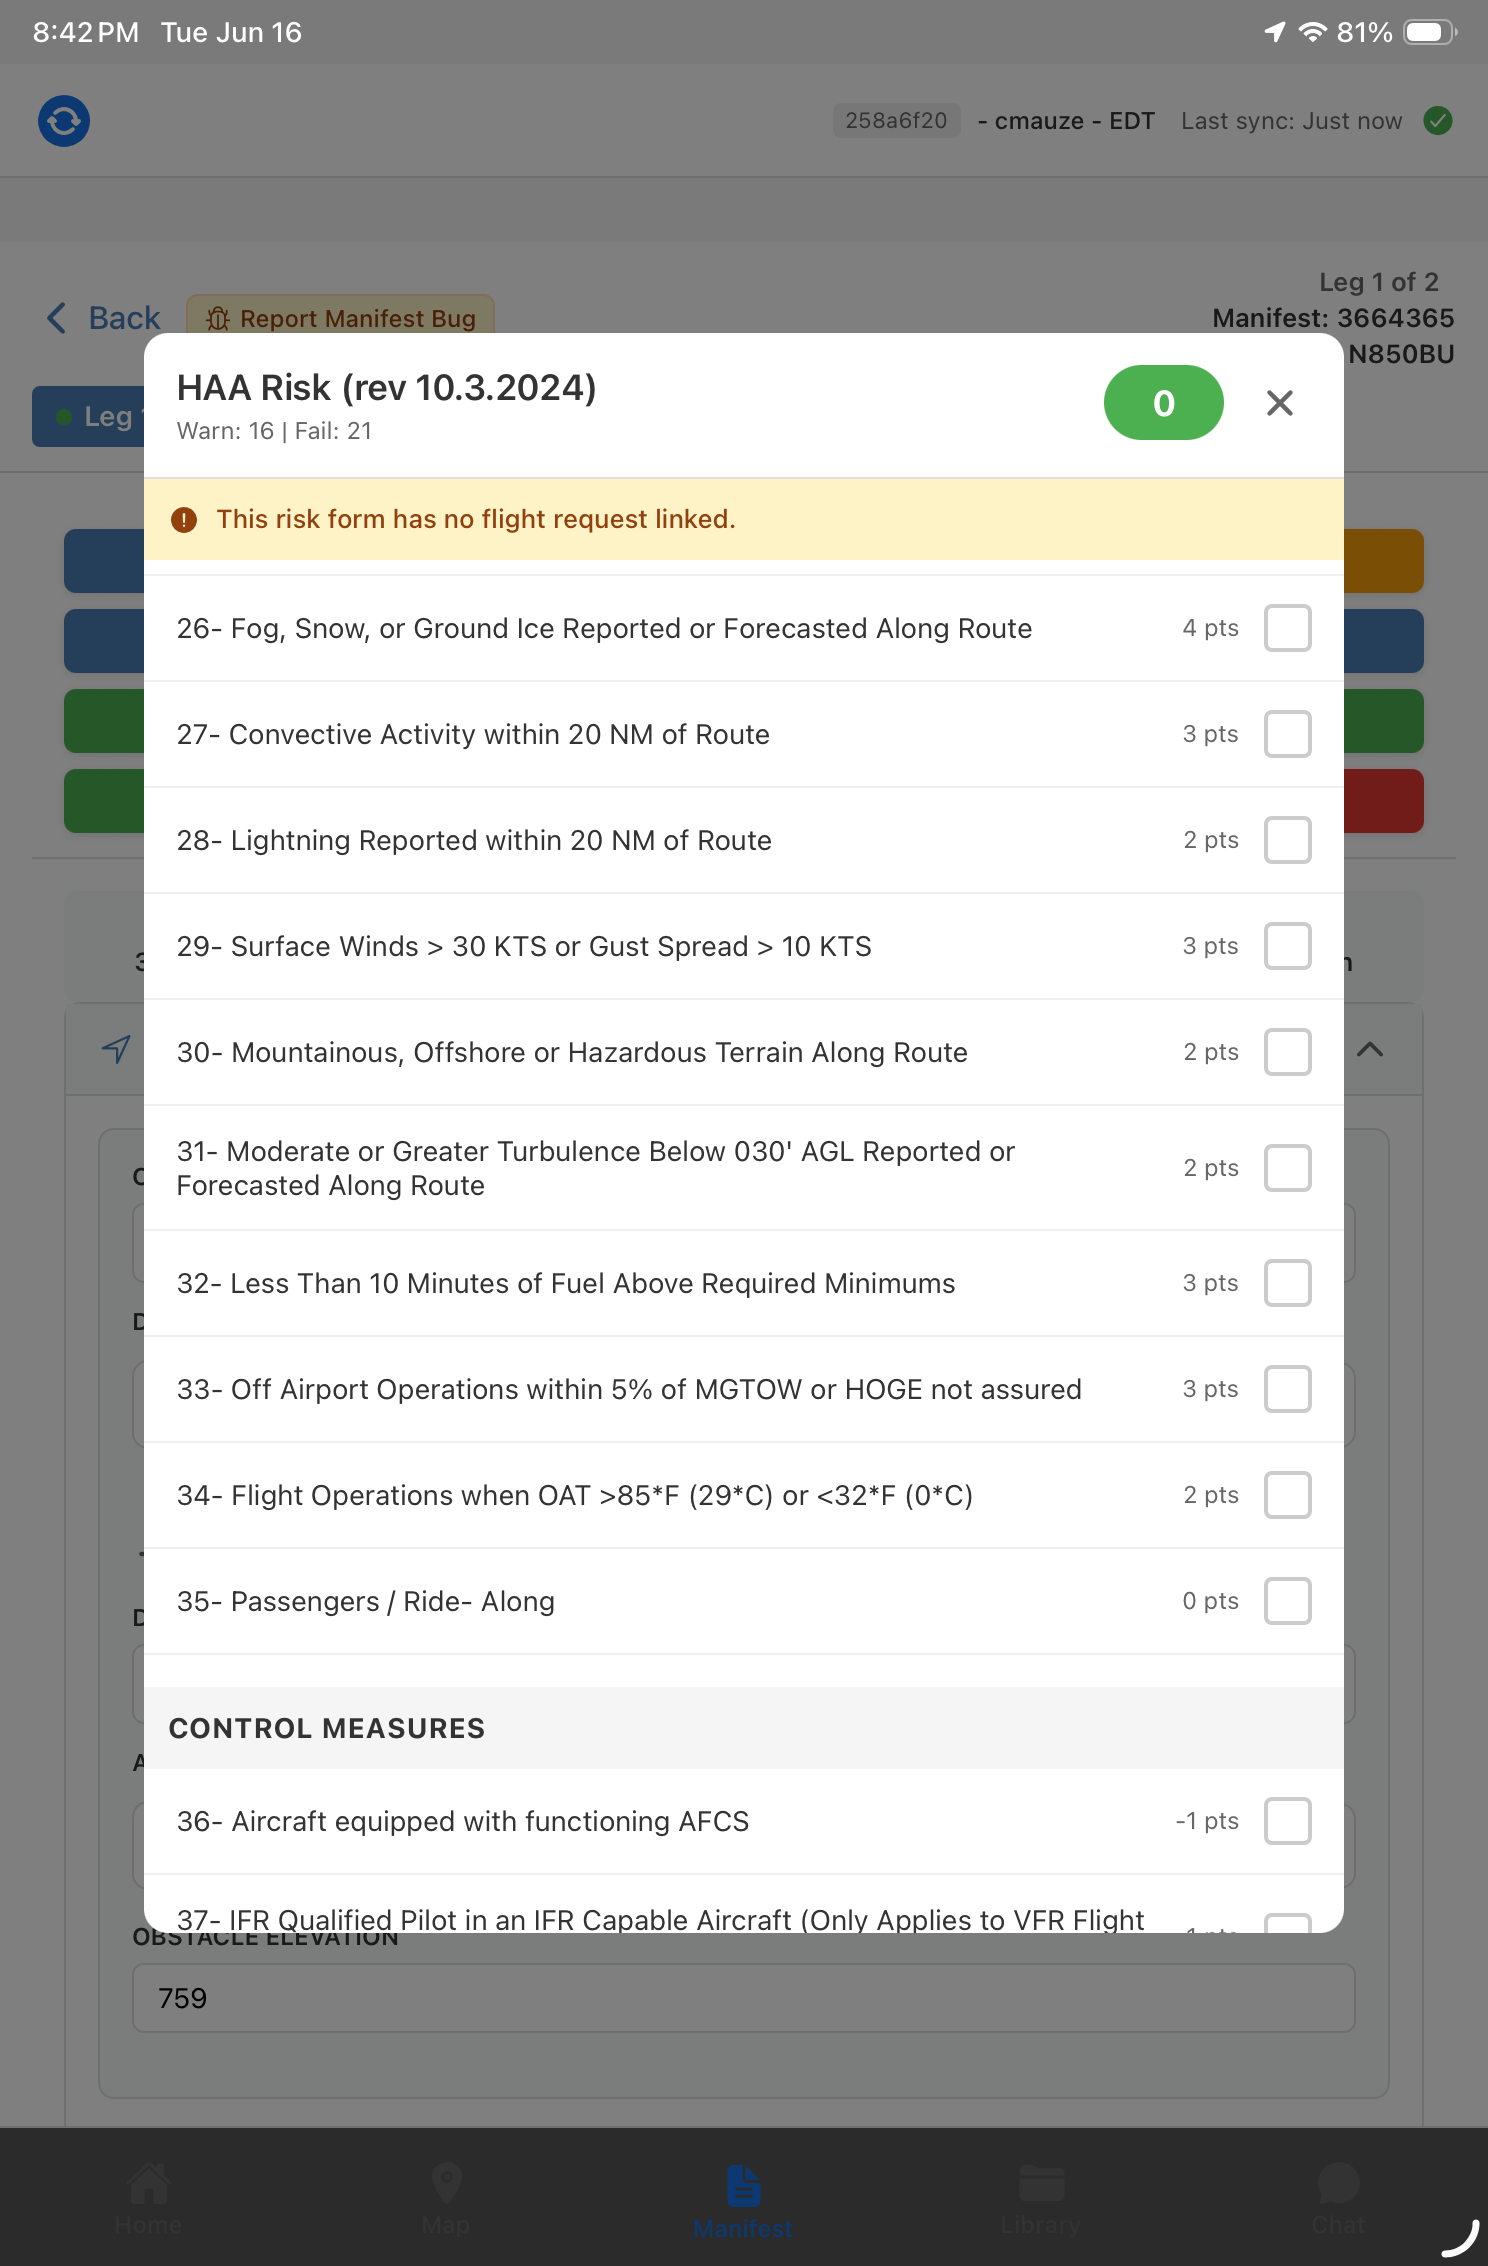
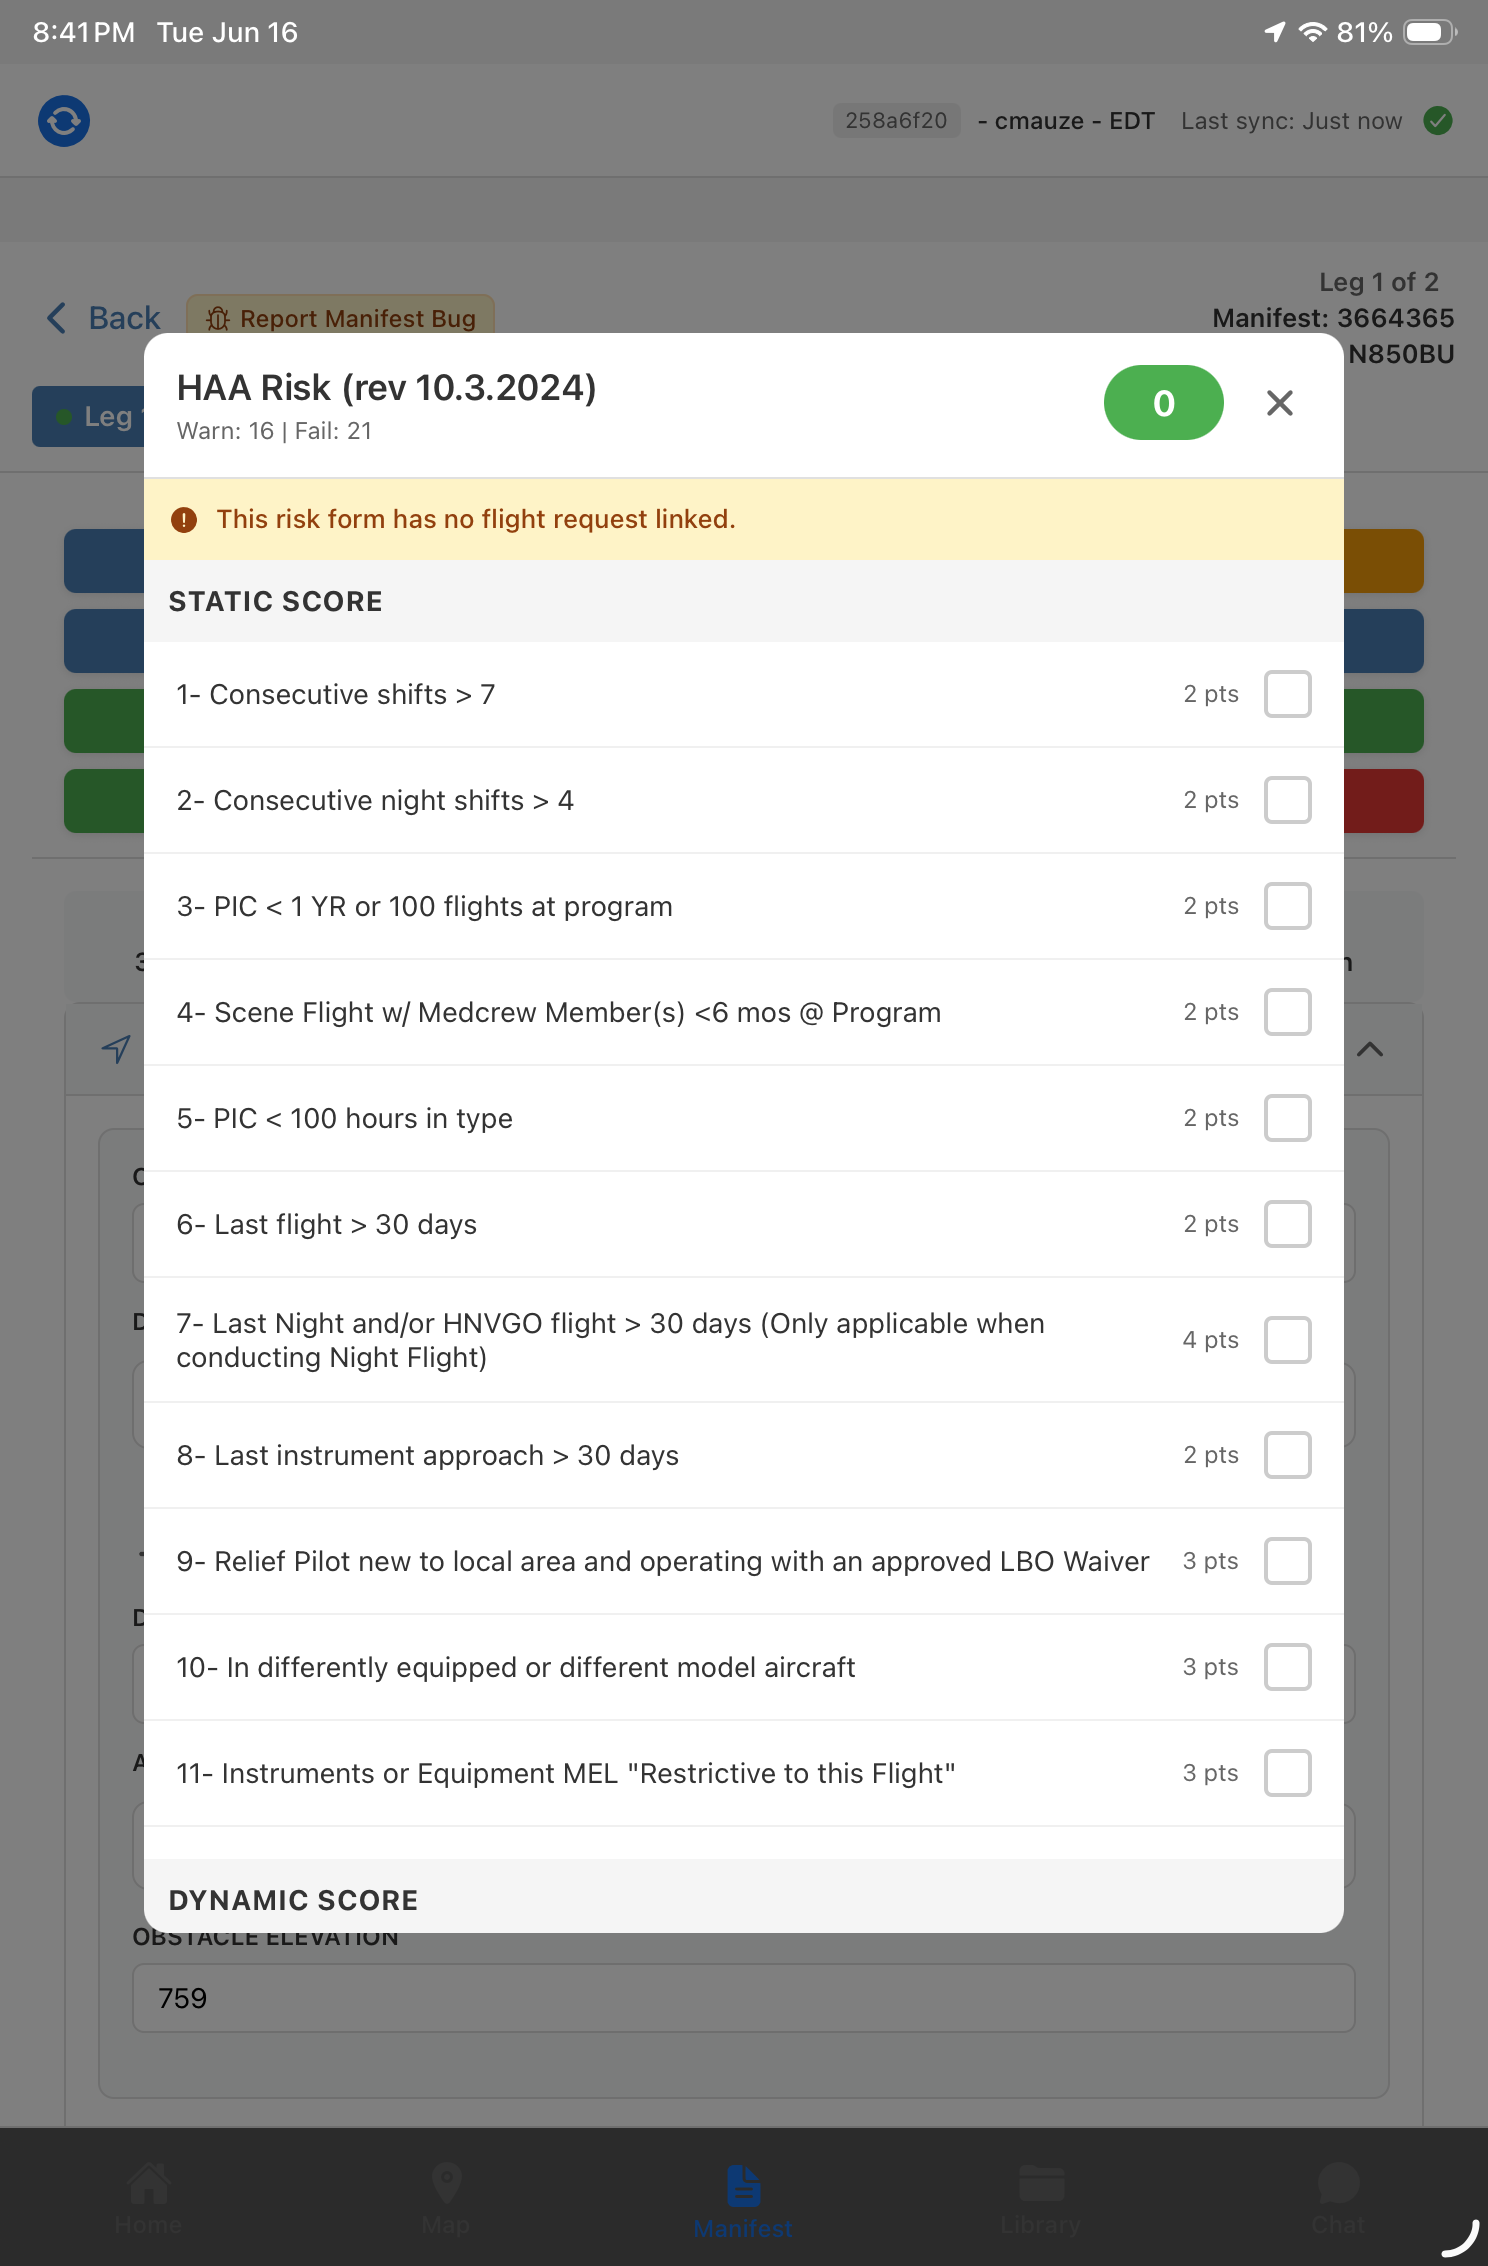
Update tile label to 'View Manifest' and update dummy image

diff --git a/index.html b/index.html
@@ -604,8 +604,8 @@
                         <span style="font-size:1rem;">4509 mm</span>
                     </button>
                     <button class="tile blue" style="flex-direction:column; padding:6px;" onclick="openModal('print-modal')">
-                        <span style="font-size:0.7rem; text-transform:uppercase;">Manifest</span>
-                        <span style="font-size:1rem;">📄</span>
+                        <span style="font-size:0.7rem; text-transform:uppercase;">View</span>
+                        <span style="font-size:1rem;">Manifest</span>
                     </button>
                 </div>
             </div>